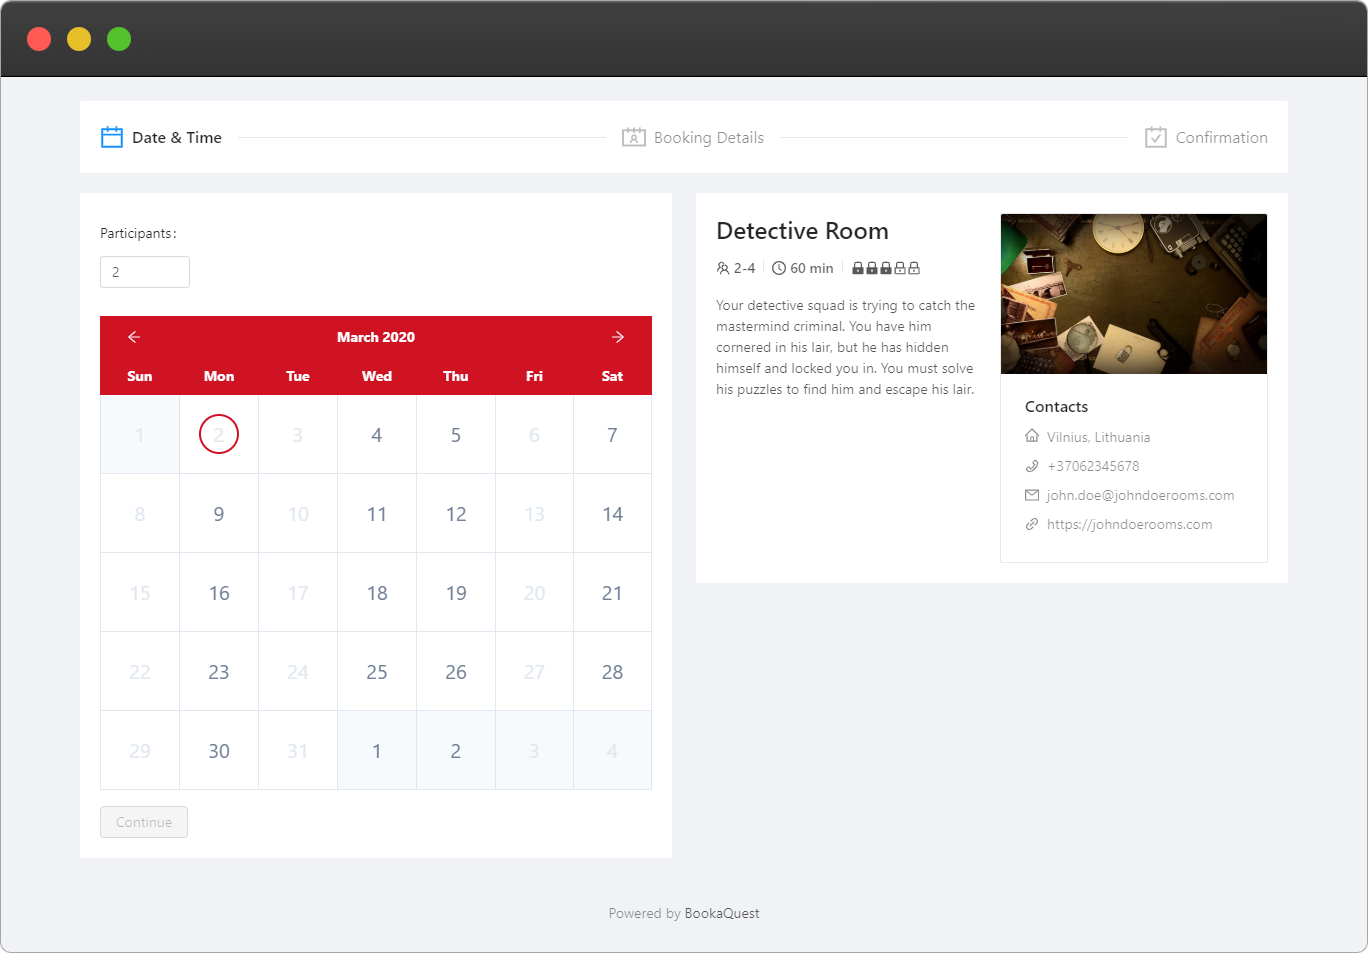
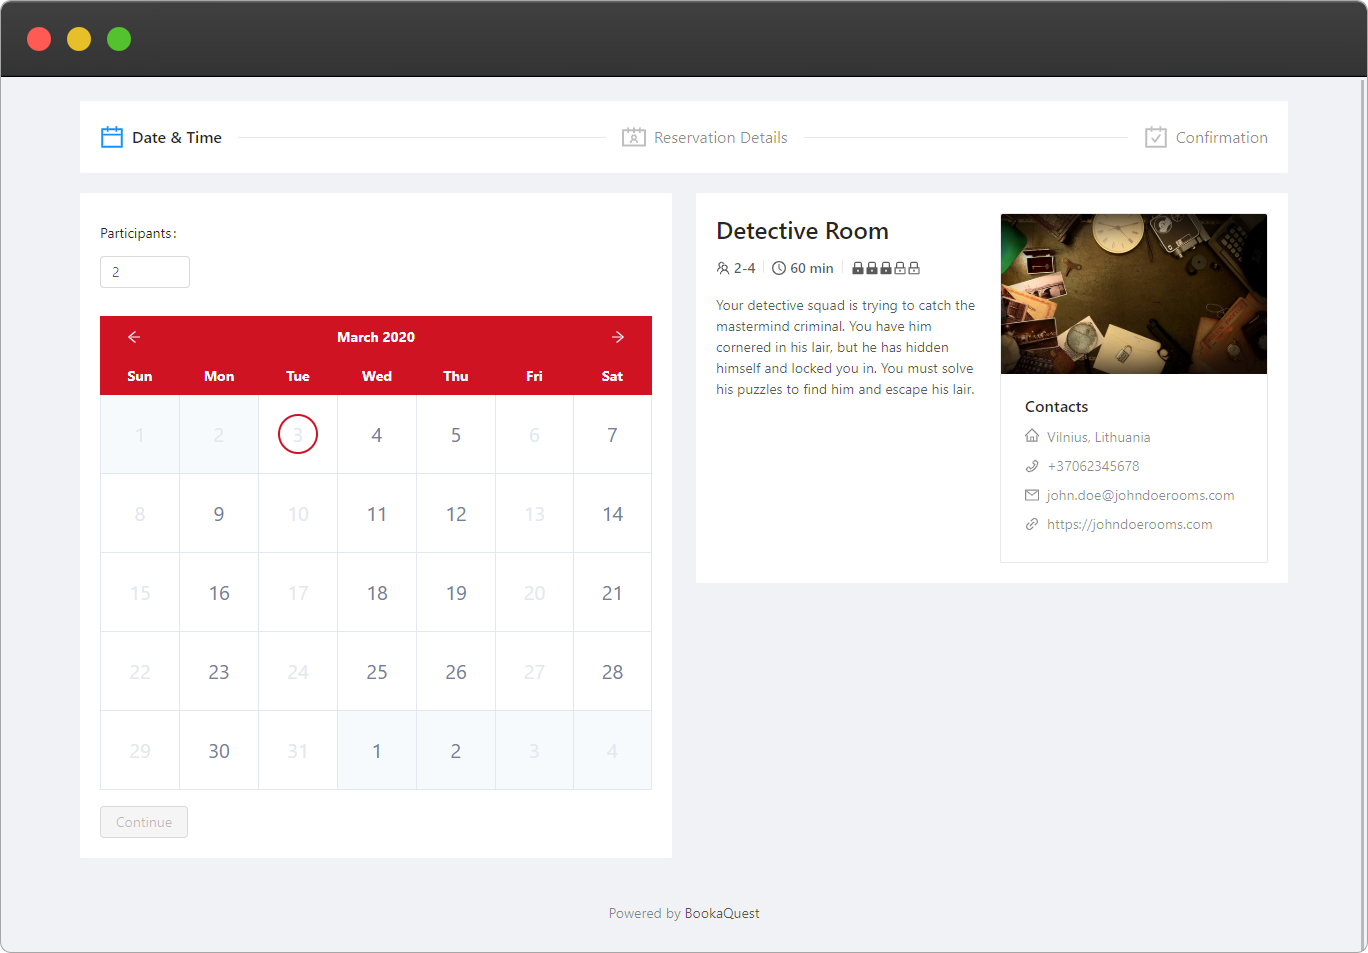
Rename bookings to reservations

diff --git a/apps/bookings-app/src/app/features/BookingItinerary/BookingItinerary.tsx b/apps/bookings-app/src/app/features/BookingItinerary/BookingItinerary.tsx
@@ -98,16 +98,16 @@ export function BookingItinerary() {
   }[booking.status];
 
   const titleText = {
-    [BookingStatus.Pending]: t`Booking request for "${escapeRoom.name}" has been received`,
-    [BookingStatus.Accepted]: t`Booking for "${escapeRoom.name}" has been confirmed, see you in`,
-    [BookingStatus.Rejected]: t`Booking for "${escapeRoom.name}" has been rejected`,
-    [BookingStatus.Canceled]: t`Booking for "${escapeRoom.name}" has been canceled`
+    [BookingStatus.Pending]: t`Reservation request for "${escapeRoom.name}" has been received`,
+    [BookingStatus.Accepted]: t`Reservation for "${escapeRoom.name}" has been confirmed, see you in`,
+    [BookingStatus.Rejected]: t`Reservation for "${escapeRoom.name}" has been rejected`,
+    [BookingStatus.Canceled]: t`Reservation for "${escapeRoom.name}" has been canceled`
   }[booking.status];
 
   const subtitleText = {
-    [BookingStatus.Pending]: t`The escape room operator will now review your booking and send you an email
+    [BookingStatus.Pending]: t`The escape room operator will now review your reservation request and send you an email
                   confirmation with details to ${booking.email} once it's accepted. You can come back
-                  to this page to check your booking status.`,
+                  to this page to check your resrvation status.`,
     [BookingStatus.Accepted]: <RemainingTime date={booking.startDate} />,
     [BookingStatus.Rejected]: booking.comment
       ? t`Comment: ${booking.comment}`
@@ -141,14 +141,14 @@ export function BookingItinerary() {
               )
             }
             status={isOutdated ? undefined : status}
-            title={isOutdated ? t`Booking is no longer active` : titleText}
+            title={isOutdated ? t`Reservation is no longer active` : titleText}
             subTitle={isOutdated ? undefined : subtitleText}
           >
             {!isOutdated && (
               <>
                 <Row gutter={16}>
                   <Col lg={8} className="mb-4">
-                    <Title level={4}>{t`Booking`}</Title>
+                    <Title level={4}>{t`Reservation`}</Title>
                     {escapeRoom.timezone !== localTimeZone && (
                       <div>
                         <Text strong className="mr-2">{t`Timezone:`}</Text>
@@ -220,7 +220,7 @@ export function BookingItinerary() {
                             {t`Book`}
                           </span>
                         }
-                        description={t`Booking details have been filled`}
+                        description={t`Reservation details have been filled`}
                       />
                       <Steps.Step
                         title={

diff --git a/apps/bookings-manager/src/app/pages/RegistrationPage/RegistrationPage.tsx b/apps/bookings-manager/src/app/pages/RegistrationPage/RegistrationPage.tsx
@@ -52,7 +52,7 @@ export function RegistrationPage(props: RouteComponentProps) {
             <Col offset={2} span={10}>
               <h1 className="text-white text-4xl mb-8" id="hero">
                 <Trans>
-                  Booking Management Software for
+                  Reservation Management Software for
                   <strong> Escape Rooms</strong>
                 </Trans>
               </h1>
@@ -95,7 +95,7 @@ export function RegistrationPage(props: RouteComponentProps) {
             <img
               className="shadow-md rounded"
               src="./assets/feature-booking-manager.png"
-              alt={t`Booking manager preview`}
+              alt={t`Reservation manager preview`}
             />
           </Col>
         </Row>
@@ -118,7 +118,7 @@ export function RegistrationPage(props: RouteComponentProps) {
         <Row gutter={64} className="px-16 py-8">
           <Col offset={2} span={10}>
             <h2 className="text-2xl mb-8 font-medium">{t`Hassle-free setup`}</h2>
-            <p className="text-lg mb-4">{t`Our process is straightforward enough that you can start accepting bookings for your escape rooms in a matter of minutes.`}</p>
+            <p className="text-lg mb-4">{t`Our process is straightforward enough that you can start accepting reservations for your escape rooms in a matter of minutes.`}</p>
             <p className="text-lg">{t`We're focused on deliver the best experience for escape room operators - intuitive interface without confusing jargon.`}</p>
           </Col>
           <Col span={10}>

diff --git a/apps/bookings-manager/src/app/pages/BookingsPage/BookingsSection/BookingsSection.tsx b/apps/bookings-manager/src/app/pages/BookingsPage/BookingsSection/BookingsSection.tsx
@@ -72,7 +72,7 @@ export function BookingsSection({
 
     return (
       <>
-        <i className="mr-2">{t`Booked at:`}</i>
+        <i className="mr-2">{t`Created at:`}</i>
         <Time
           type="date"
           date={[
@@ -91,7 +91,7 @@ export function BookingsSection({
   return (
     <Row gutter={16}>
       <Col xl={10} xxl={12}>
-        <Section title={t`Upcoming Bookings`}>
+        <Section title={t`Upcoming reservations`}>
           <UpcomingBookings
             bookings={bookings}
             loading={loading}
@@ -104,7 +104,7 @@ export function BookingsSection({
       </Col>
 
       <Col xl={14} xxl={12}>
-        <Section title={t`Pending Bookings`}>
+        <Section title={t`Pending reservations`}>
           <PendingBookings
             bookings={bookings}
             loading={loading}
@@ -115,7 +115,7 @@ export function BookingsSection({
           />
         </Section>
 
-        <Section title={t`Booking history`} extra={renderRangeText()}>
+        <Section title={t`Reservation history`} extra={renderRangeText()}>
           {!allBookings ? (
             <div className="m-4 text-center">
               <Spin />

diff --git a/apps/bookings-manager/src/app/pages/LoginPage/LoginForm.tsx b/apps/bookings-manager/src/app/pages/LoginPage/LoginForm.tsx
@@ -1,11 +1,13 @@
 import { Form, FormItem, Input, SubmitButton } from 'formik-antd';
 import { Formik, FormikHelpers } from 'formik';
 import { message } from 'antd';
+import { navigate } from '@reach/router';
 import * as React from 'react';
 import * as Yup from 'yup';
 import { useI18n } from '@bookaquest/utilities';
 import { SignIn } from '../../interfaces/auth';
 import { useUser } from '../../shared/hooks/useUser';
+import { PrivateRoutes } from '../../constants/routes';
 
 const initialValues: SignIn = {
   email: '',
@@ -28,10 +30,9 @@ export function LoginForm() {
     actions: FormikHelpers<SignIn>
   ) => {
     await login(values)
+      .then(() => navigate(PrivateRoutes.Bookings))
       .catch(() => {
         message.error(t`Invalid credentials`);
-      })
-      .finally(() => {
         actions.setSubmitting(false);
       });
   };

diff --git a/apps/bookings-app/src/app/features/EscapeRoomSelect/EscapeRoomSelect.tsx b/apps/bookings-app/src/app/features/EscapeRoomSelect/EscapeRoomSelect.tsx
@@ -1,6 +1,5 @@
 import { List, Row, Col } from 'antd';
 import { useRoute, useLocation } from 'wouter';
-import Title from 'antd/lib/typography/Title';
 import * as React from 'react';
 import { EscapeRoom } from '@bookaquest/interfaces';
 import { EscapeRoomCard } from '@bookaquest/components';
@@ -40,8 +39,8 @@ export function EscapeRoomSelect() {
   // TODO: math for calculating better 1,2,3,4 escape rooms grid placement
   return (
     <>
-      <Title className="text-center">{t`Pick a Room`}</Title>
-      <Row className="bg-gray-400 p-4 pb-0 rounded-sm">
+      <h1 className="text-3xl font-medium mb-8 text-center">{t`Pick a Room`}</h1>
+      <Row className="bg-gray-300 p-12 pb-8 rounded-sm">
         <Col xxl={{ span: 16, push: 4 }}>
           <List
             grid={{

diff --git a/apps/bookings-manager/src/app/shared/components/BookingModal/BookingDetails.tsx b/apps/bookings-manager/src/app/shared/components/BookingModal/BookingDetails.tsx
@@ -105,7 +105,7 @@ export function BookingDetails({ booking, escapeRoom, timeZone }: Props) {
           <a href={`mailto:${booking.email}`}>{booking.email}</a>
         </div>
         <div>
-          <Text strong className="mr-2">{t`Booked at:`}</Text>
+          <Text strong className="mr-2">{t`Created at:`}</Text>
           <Time
             date={booking.createdAt}
             type={{ format: 'PPPp' }}
@@ -113,7 +113,7 @@ export function BookingDetails({ booking, escapeRoom, timeZone }: Props) {
           />
         </div>
         <div>
-          <Text strong className="mr-2">{t`Booking id:`}</Text>
+          <Text strong className="mr-2">{t`Reservation ID:`}</Text>
           <Text copyable>{booking._id}</Text>
         </div>
       </div>

diff --git a/apps/bookings-app/src/app/features/Booking/ConfirmationStep/ConfirmationStep.tsx b/apps/bookings-app/src/app/features/Booking/ConfirmationStep/ConfirmationStep.tsx
@@ -51,7 +51,7 @@ export function ConfirmationStep({
     }
 
     const { _id } = await api.createBooking(options).catch(e => {
-      message.error(t`Error creating a booking, please try again later`);
+      message.error(t`Error creating a reservation, please try again later`);
       throw e;
     });
     // TODO: handle error
@@ -147,7 +147,7 @@ export function ConfirmationStep({
         <Col>
           {escapeRoom.paymentEnabled && (
             <>
-              <Divider orientation="left">{t`Booking info`}</Divider>
+              <Divider orientation="left">{t`Reservation info`}</Divider>
               <div className="flex">
                 <ReservationInfo
                   escapeRoom={escapeRoom}

diff --git a/apps/bookings-app/src/app/features/Booking/ConfirmationStep/StripeCardForm/CardForm.tsx b/apps/bookings-app/src/app/features/Booking/ConfirmationStep/StripeCardForm/CardForm.tsx
@@ -40,7 +40,7 @@ export const CardForm = injectStripe(({ onSubmit, loading, stripe }: Props) => {
       <Alert
         type="warning"
         message={t`Your card will be charged`}
-        description={t`Your booking will be completed after payment`}
+        description={t`Your reservation will be completed after payment`}
       />
       <FormItem style={{ marginBottom: 15 }} label={t`Name on card`}>
         <Input

diff --git a/apps/bookings-manager/src/app/pages/EscapeRoomsPage/EscapeRoomsPage.tsx b/apps/bookings-manager/src/app/pages/EscapeRoomsPage/EscapeRoomsPage.tsx
@@ -35,7 +35,7 @@ export function EscapeRoomsPage(props: RouteComponentProps) {
                 href={`${environment.bookingAppUrl}/booking/${organization._id}`}
                 newTab
               >
-                <Button type="link">{t`Go to organization booking page`}</Button>
+                <Button type="link">{t`Go to reservation page`}</Button>
               </Link>
             )
           }

diff --git a/apps/bookings-manager/src/app/pages/EscapeRoomPage/EscapeRoomPage.tsx b/apps/bookings-manager/src/app/pages/EscapeRoomPage/EscapeRoomPage.tsx
@@ -46,7 +46,7 @@ export function EscapeRoomPage({
                 href={`${environment.bookingAppUrl}/booking/${escapeRoom.organization}/${escapeRoom._id}`}
                 newTab
               >
-                <Button type="link">{t`Go to booking page`}</Button>
+                <Button type="link">{t`Go to reservation page`}</Button>
               </Link>
             )
           }

diff --git a/apps/bookings-app/src/app/features/Booking/Booking.tsx b/apps/bookings-app/src/app/features/Booking/Booking.tsx
@@ -106,7 +106,7 @@ export function Booking() {
             <Steps current={currentStep}>
               <Steps.Step title="Date & Time" icon={<Icon type="calendar" />} />
               <Steps.Step
-                title="Booking Details"
+                title="Reservation Details"
                 icon={<Icon type="contacts" />}
               />
               <Steps.Step

diff --git a/apps/bookings-manager/src/app/pages/BookingsPage/BookingsPage.tsx b/apps/bookings-manager/src/app/pages/BookingsPage/BookingsPage.tsx
@@ -106,7 +106,10 @@ export function BookingsPage(
   }
 
   return (
-    <PageContent header={<PageHeader title={t`All Bookings`} />} noBackground>
+    <PageContent
+      header={<PageHeader title={t`All Reservations`} />}
+      noBackground
+    >
       <BookingModal
         visible={selectedBookings.length > 0}
         updateBookings={updateBookings}
